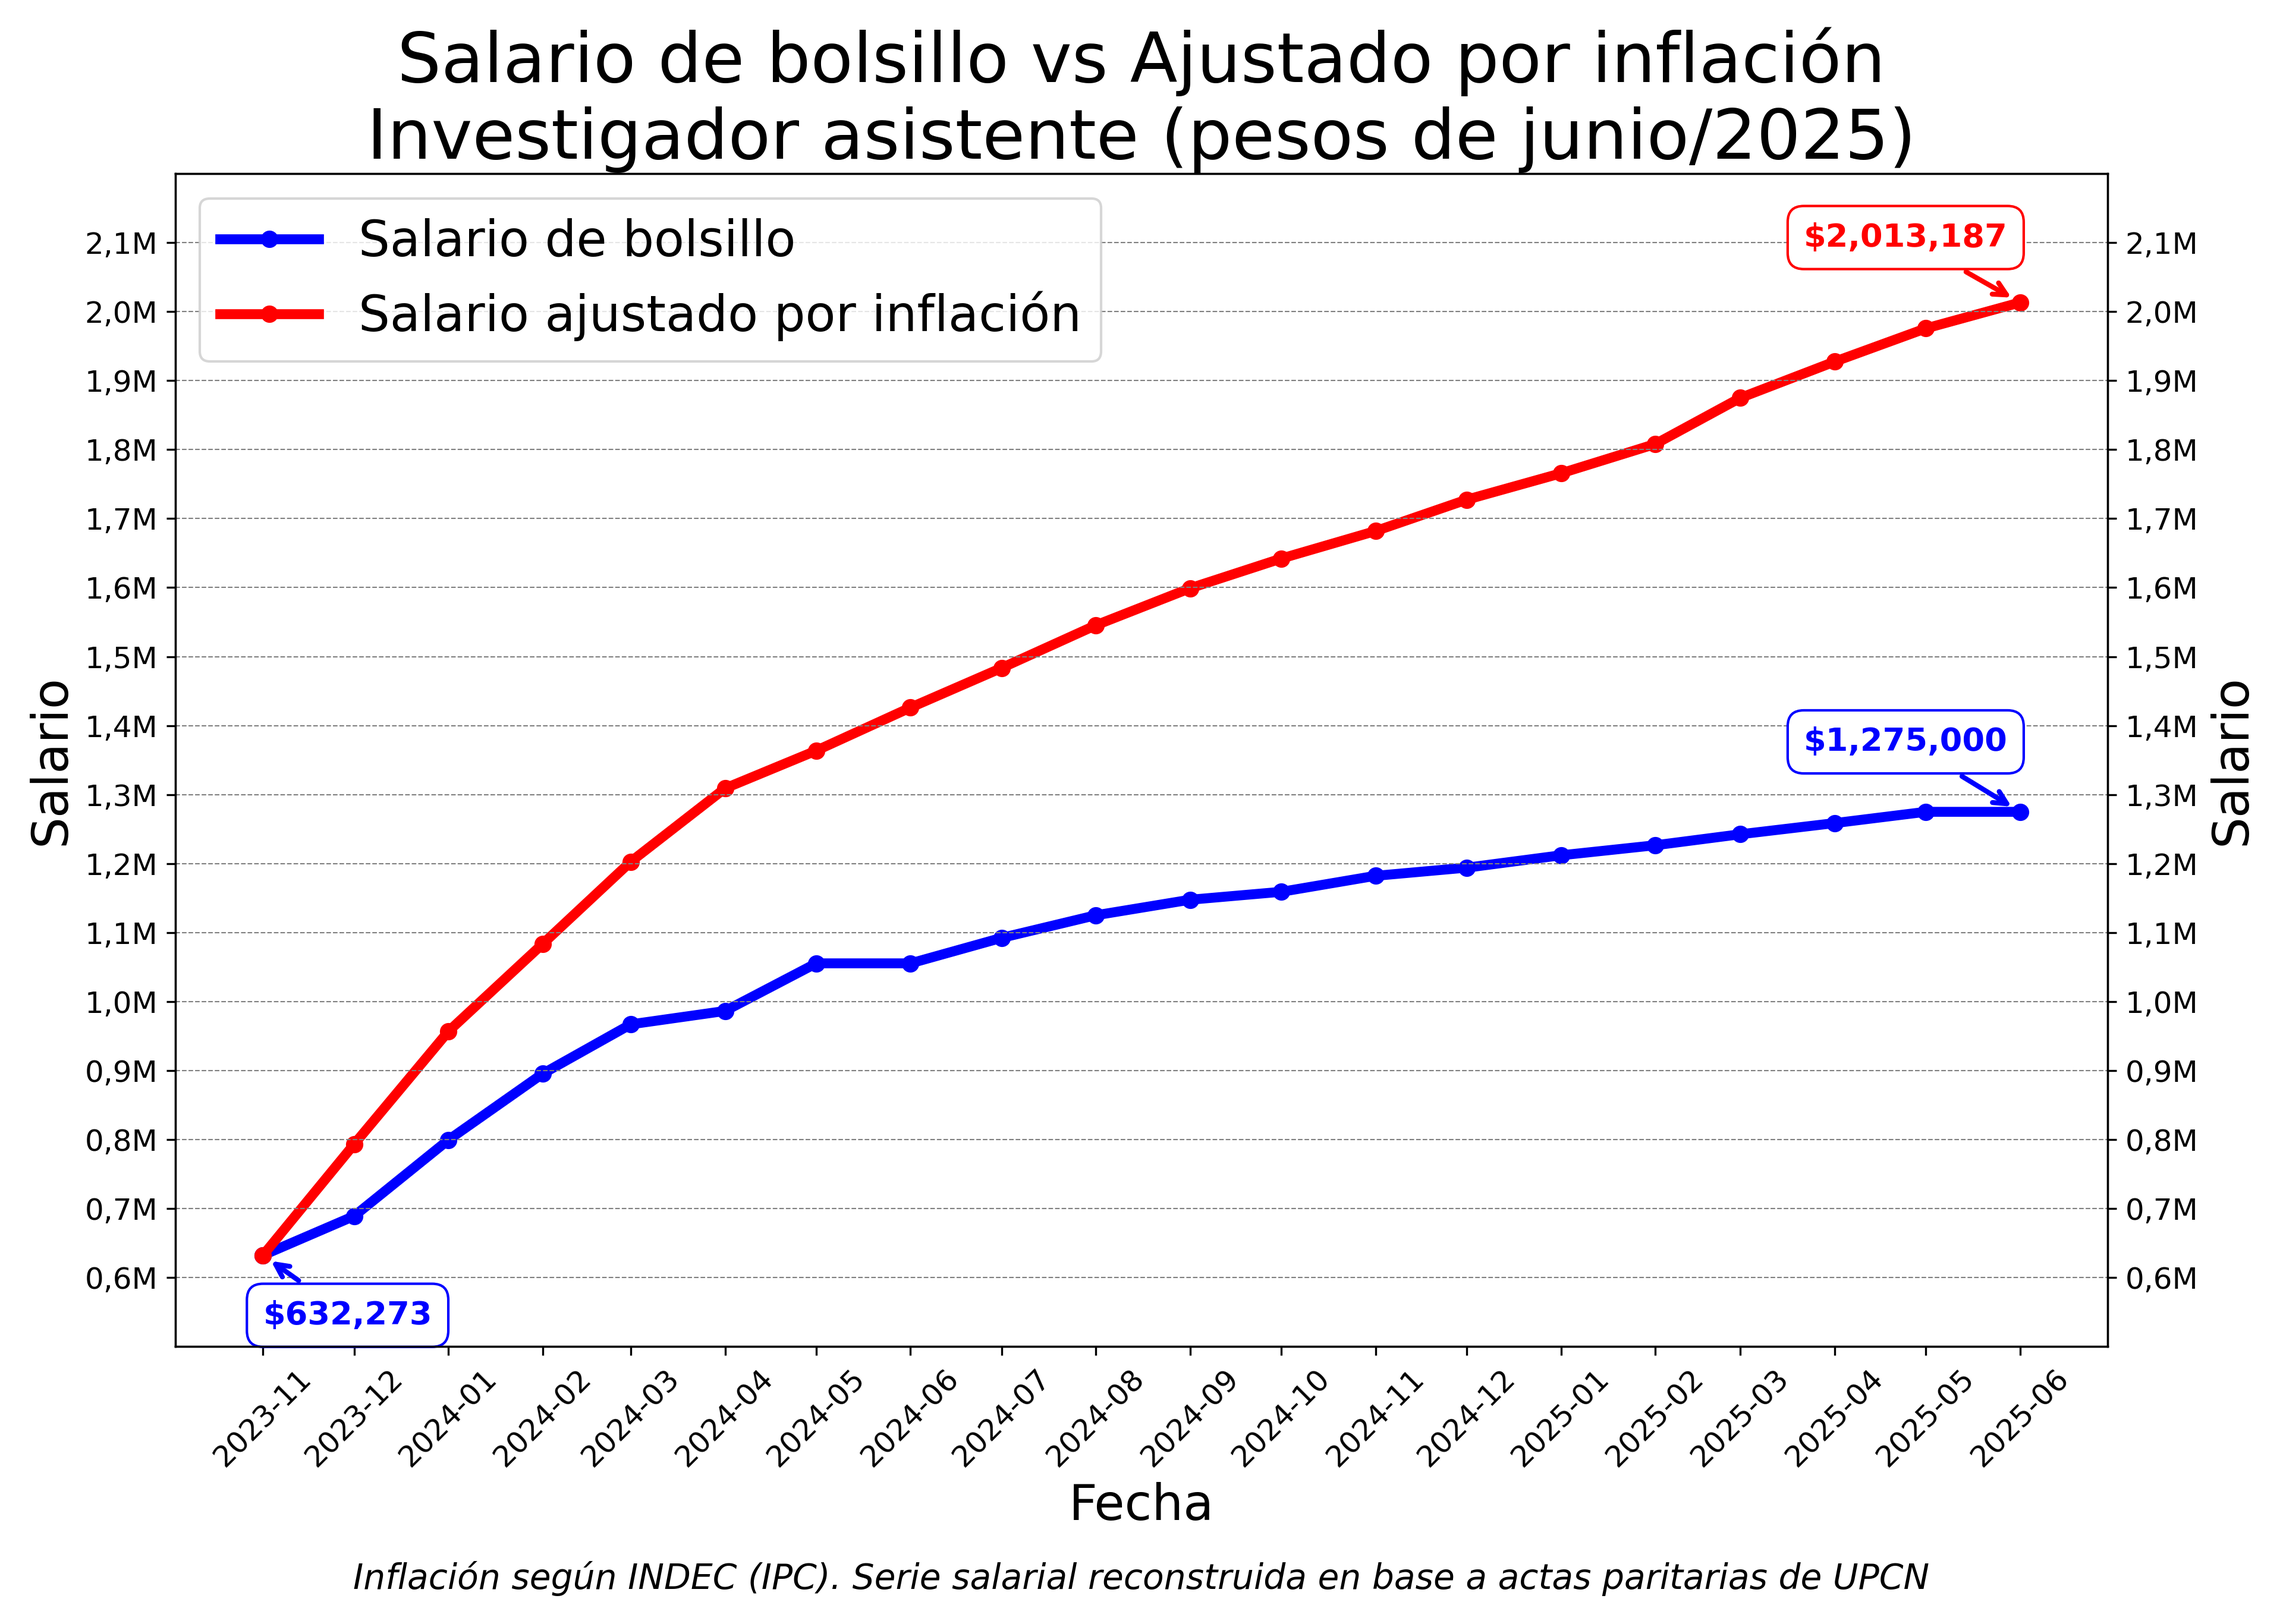
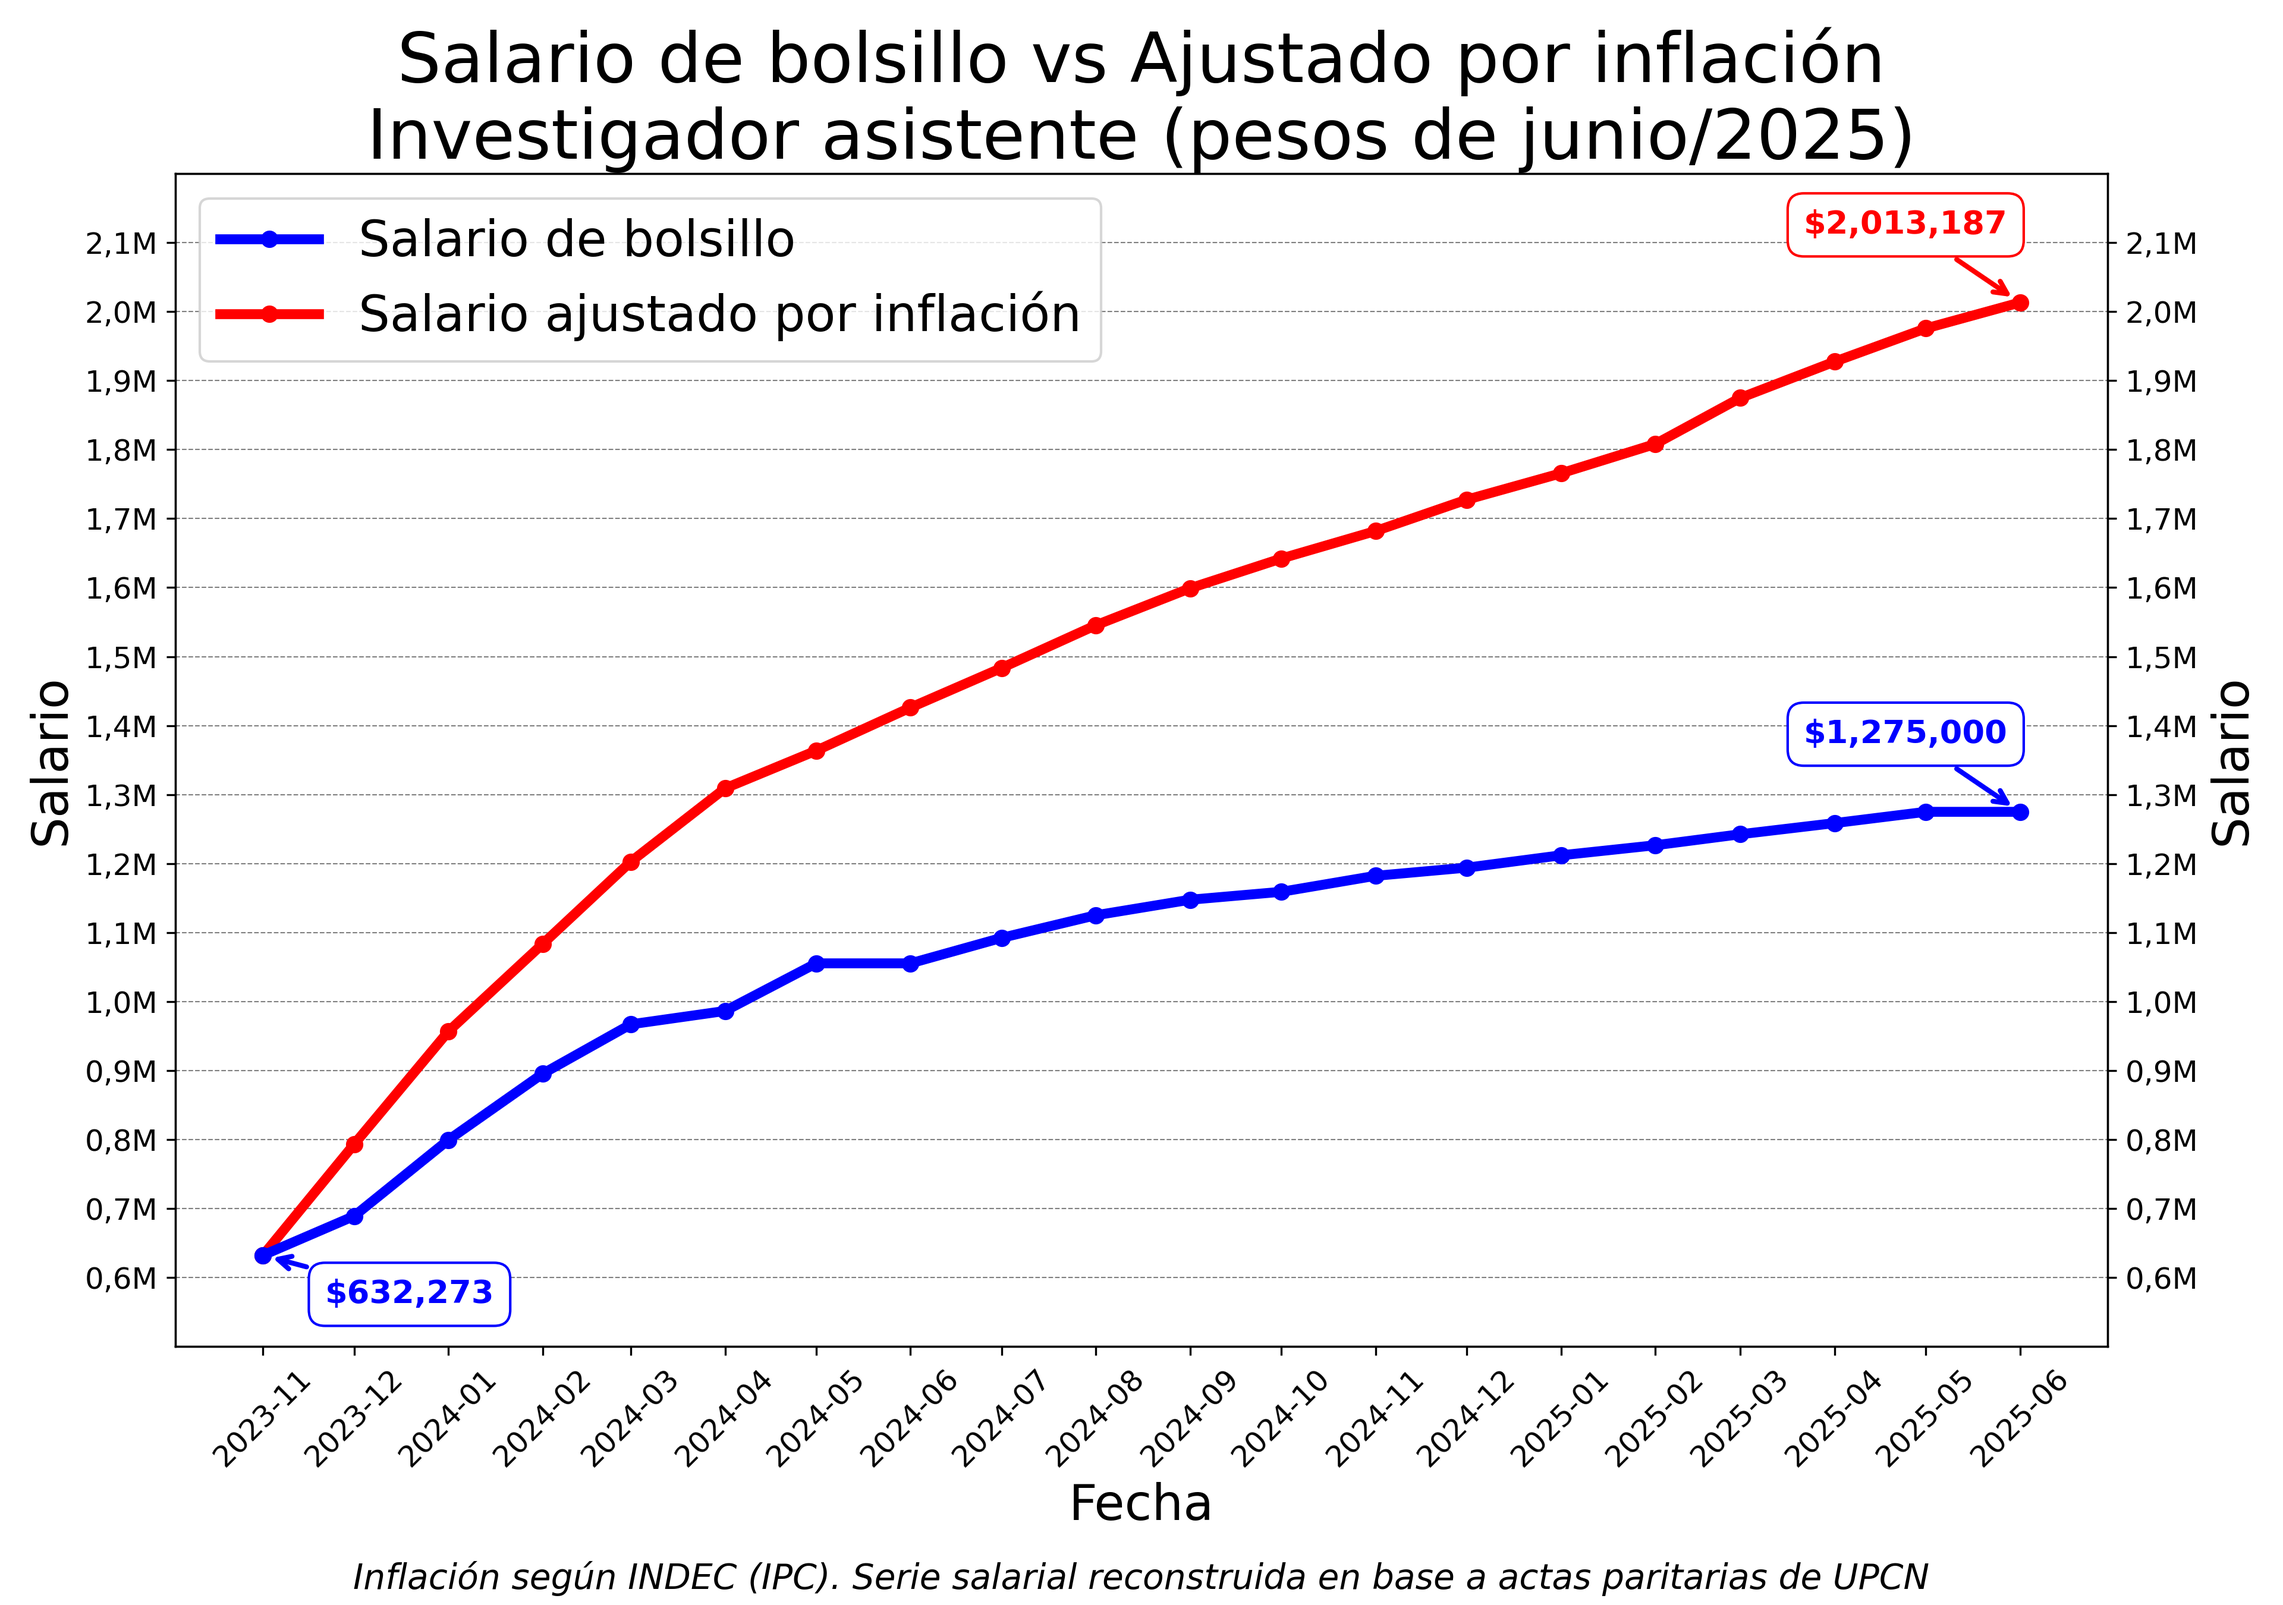
update plots

Changed region(s): [[0.0938, 0.7778, 0.2188, 0.84], [0.7812, 0.4356, 0.875, 0.4978], [0.7812, 0.1244, 0.875, 0.1867]]

diff --git a/graf_cic.py b/graf_cic.py
@@ -129,15 +129,15 @@ def plot_nominal_vs_adjusted(csv_file, title_prefix,subtitle, output_filename, f
     
     # Plot series
     ax.plot(df["fecha"], df["nominal"], color="blue", linewidth=4, 
-            marker='o', markersize=6, label="Salario de bolsillo")
+            marker='o', markersize=6, label="Salario de bolsillo", zorder=2.7)
     ax.plot(df["fecha"], df["ajustado"], color="red", linewidth=4,
-            marker='o', markersize=6, label="Salario ajustado por inflación")
+            marker='o', markersize=6, label="Salario ajustado por inflación", zorder=2.6)
     
     # Define point properties for labels
     points = [
-        (df["fecha"].iloc[0], df["nominal"].iloc[0], 'blue', 0, -18),      # First nominal
-        (df["fecha"].iloc[-1], df["nominal"].iloc[-1], 'blue', -5, 22),    # Last nominal
-        (df["fecha"].iloc[-1], df["ajustado"].iloc[-1], 'red', -5, 20)    # Last adjusted
+        (df["fecha"].iloc[0], df["nominal"].iloc[0], 'blue', 25, -(df["ajustado"].iloc[-1]-df["ajustado"].iloc[0])/145000),      # First nominal
+        (df["fecha"].iloc[-1], df["nominal"].iloc[-1], 'blue', -5, (df["ajustado"].iloc[-1]-df["ajustado"].iloc[0])/55000),    # Last nominal
+        (df["fecha"].iloc[-1], df["ajustado"].iloc[-1], 'red', -5, (df["ajustado"].iloc[-1]-df["ajustado"].iloc[0])/55000)    # Last adjusted
     ]
     
     # Create text labels with boxes
